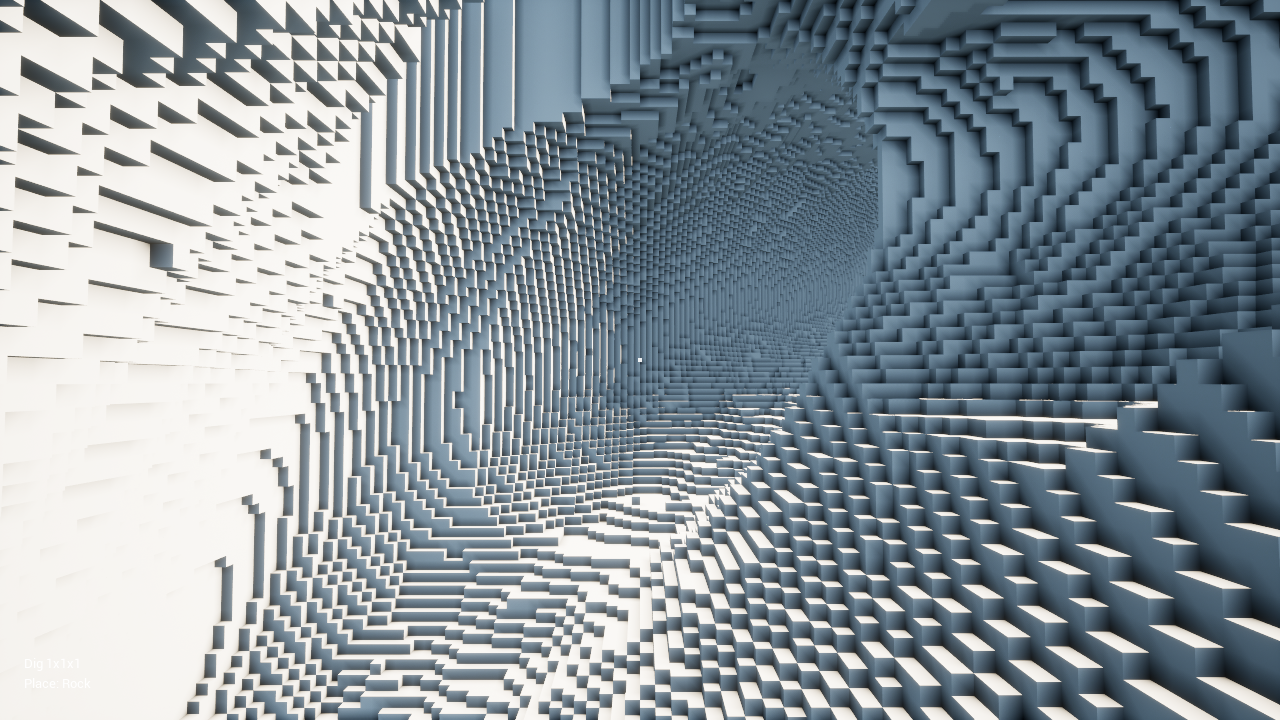
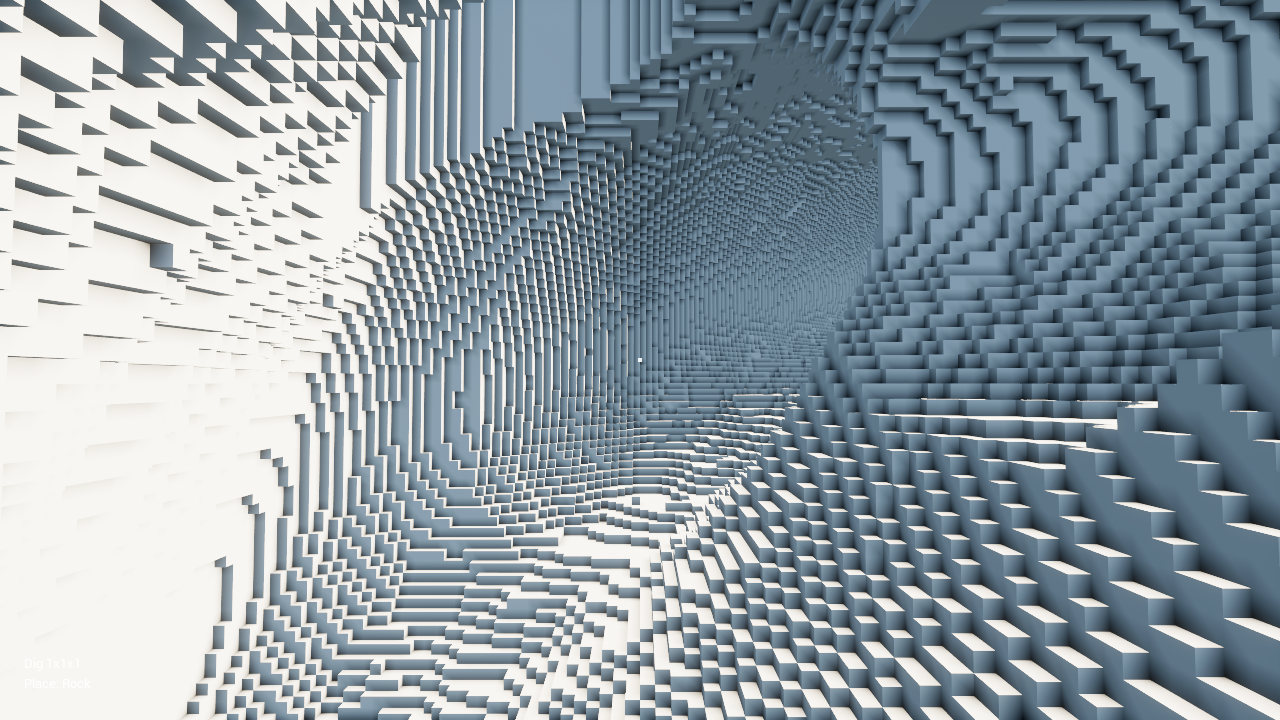
GI: corrected cost model, cave convergence finding, status writeup
Perf (post-warmup p95, -VoxelPerfRun=60 seed 20260719, min-spec proxy):
GI off 4.79 ms (baseline band 4.93-4.97, not regressed), GI on 8.99 ms.
Isolation runs correct the first slice cost attribution: disabling quad
subdivision moves p95 by -0.04 ms (it is FREE, not the main cost), while
disabling GI-driven proxy rebuilds moves it by -1.7 ms.

GPU sampling is NOT delivered. Two optimisations were implemented, measured
and reverted rather than shipped half-working: an in-place colour vertex
buffer update (8.99 -> 7.92 ms, but that buffer is not set up for CPU rewrite
so the upload does not reliably reach the drawn geometry), and a refresh-gate
plus solve time-slice pair (starves convergence, and gates on the wrong
question). voxel.GI.SolveBudgetMs survives, defaulted to 0 = off.

Cave settle raised to 50 s (-VoxelGICaveSettle) and the shipped cave pair
recaptured at the settled, reproducible state. That surfaced a real quality
defect: the progressive one-bounce gather is not energy-conserving, so
enclosed space creeps BRIGHTER over successive re-solves (same camera, seed
and build: mean luma 104.7 at 24 s vs 129.0 at 50 s). The earlier darker
capture flattered the feature; both are published and labelled.

Also identifies the cone-basis flaw: six axis-aligned cones recombined with
max(0, N.D) means exactly one cone survives for the axis-aligned normals this
mesh always has, so side light is weighted to zero.
[…]

diff --git a/ue-project/Source/VoxelEarth/VoxelEarthGameMode.cpp b/ue-project/Source/VoxelEarth/VoxelEarthGameMode.cpp
@@ -621,12 +621,29 @@ void AVoxelEarthGameMode::BeginPlay()
 					// timer well before the capture. Posing and capturing inside
 					// one lambda captures the PRE-move view (documented in the
 					// GITest block; reproduced here).
+					//
+					// SETTLE TIME IS LOAD-BEARING, and 24 s was not enough. The
+					// camera teleports ~300 m and 13 m down, so the whole deep
+					// footprint is meshed from scratch; the GI dirty queue sits
+					// around 1700 bricks and the re-shade queue several hundred,
+					// draining at MaxBrickSolvesPerFrame / MaxChunkRefreshesPerFrame.
+					// Capture before that drains and chunks are still on their
+					// plain-AO fallback, so the cave photographs BRIGHT -- and
+					// whether it does is a race, i.e. the same build and seed
+					// gave a dark cave one run and a bright one the next. Two
+					// runs were spent bisecting a "regression" that was this
+					// race. Default settle is now 50 s; -VoxelGICaveSettle=<s>
+					// overrides.
+					float CaveSettleSeconds = 50.f;
+					FParse::Value(FCommandLine::Get(), TEXT("VoxelGICaveSettle="), CaveSettleSeconds);
 					GetWorldTimerManager().SetTimer(
 						GICavePoseTimerHandle, FTimerDelegate::CreateWeakLambda(this, PoseInCave), 0.5f, false);
 					GetWorldTimerManager().SetTimer(
-						GICaveRepose1TimerHandle, FTimerDelegate::CreateWeakLambda(this, PoseInCave), 21.f, false);
+						GICaveRepose1TimerHandle, FTimerDelegate::CreateWeakLambda(this, PoseInCave),
+						FMath::Max(1.f, CaveSettleSeconds - 4.f), false);
 					GetWorldTimerManager().SetTimer(
-						GICaveRepose2TimerHandle, FTimerDelegate::CreateWeakLambda(this, PoseInCave), 23.f, false);
+						GICaveRepose2TimerHandle, FTimerDelegate::CreateWeakLambda(this, PoseInCave),
+						FMath::Max(1.f, CaveSettleSeconds - 2.f), false);
 					GetWorldTimerManager().SetTimer(
 						GICaveShotTimerHandle,
 						FTimerDelegate::CreateWeakLambda(this,
@@ -674,10 +691,11 @@ void AVoxelEarthGameMode::BeginPlay()
 								}
 								FScreenshotRequest::RequestScreenshot(TEXT("VoxelGICave"), false, true);
 							}),
-						24.f, false);
+						CaveSettleSeconds, false);
 					GetWorldTimerManager().SetTimer(
 						GICaveQuitTimerHandle,
-						FTimerDelegate::CreateLambda([]() { FPlatformMisc::RequestExit(false); }), 28.f, false);
+						FTimerDelegate::CreateLambda([]() { FPlatformMisc::RequestExit(false); }),
+						CaveSettleSeconds + 4.f, false);
 				}),
 			GICaveDelaySeconds, false);
 	}

diff --git a/docs/status.md b/docs/status.md
@@ -4219,3 +4219,136 @@ handshake digest `0x52004DCC85DDD80C`.
    `VoxelCoords::FloorDiv` and an anonymous-namespace copy in
    `VoxelLightField.cpp`; fixed by qualifying at the call site, but the
    duplicate helper should probably just go.
+
+### GI: defect fix + GPU sampling
+
+**1. The unresolved roof-underside defect: found, and it was never a GI bug.**
+
+The previous slice flagged that in `04-roofed-gi-on.png` the roof slab underside
+renders fully lit while the light field correctly probes 0.00 there. It was
+right that the field was correct, and right to flag it rather than dress it up.
+The cause is that **the underside was never on screen**.
+
+Both winding branches in `FVoxelChunkSceneProxy` were inverted. With the
+one-sided `M_VoxelTerrain` (confirmed at runtime, `twoSided=0`) every voxel face
+was wound so UE treated its BACK as front-facing, so you always saw the far side
+of a solid, shaded with that far face's normal. Under the slab you were shown
+its **sunlit +Z top face** in place of its shaded -Z underside.
+
+Measured, not reasoned (new `voxel.GI.Debug 3` and `voxel.GI.DebugVis`):
+
+| probe | result |
+|---|---|
+| `Debug 3` per-face-direction, roof chunk `(-4800,0,115520)` | `+Z n=64 hit=64 irr=1.000`, `-Z n=64 hit=64 irr=0.000` |
+| `DebugVis 3` (abs(N.Z) ramp) | the ceiling shades as a **+Z** face |
+| `DebugVis 4` (omit +Z faces) | the ceiling becomes **sky** -- the underside drew nothing |
+| runtime material query | `twoSided=0`, so a back-facing quad is culled |
+
+So 100% of the underside vertices found solved data and shaded black, and the
+pixels on screen belonged to a different triangle. The field, the sampling and
+the vertex colours were correct throughout.
+
+This predates GI and mis-rendered **all** terrain: the "scattered floating
+blocks, holes, distant clipmap showing through" look in every earlier screenshot
+is the world drawn inside-out. GI only made it falsifiable, being the first
+thing that computes a normal-dependent value. `07/08-roofed-gi-off/on-fixed.png`
+vs `09-roofed-legacy-winding-before.png` is the before/after; `DebugVis 6`
+restores the legacy winding so the pair comes from one build.
+
+**This changes GI-OFF output too.** It is a rendering-correctness fix, not a GI
+change; the "GI off stays byte-identical" rule exists to stop GI leaking into
+the non-GI path, not to preserve a bug. Flagged rather than buried.
+`VoxelWaterChunkComponent.cpp` has the same inverted winding copied from here
+and was NOT touched (not an owned file) -- follow-up.
+
+**2. GPU sampling: NOT DONE. What the cost actually is.**
+
+The first slice attributed GI-on's +3 ms to "extra vertices from
+`MaxQuadSpanVoxels` plus the extra proxy rebuilds". The first half is wrong.
+Isolated by measurement (post-warmup p95, `-VoxelPerfRun=60`, seed 20260719,
+min-spec proxy, 1080p, clean `Saved/VoxelWorlds`):
+
+| config | post-warmup p95 |
+|---|---|
+| GI off | **4.79 ms** |
+| GI on | **8.99 ms** |
+| GI on, `MaxQuadSpanVoxels 0` (no subdivision) | 9.03 ms (**-0.04 ms: subdivision is free**) |
+| GI on, `MaxChunkRefreshesPerFrame 0` (no GI proxy rebuilds) | 7.31 ms (**-1.7 ms**) |
+
+So the +4.2 ms splits roughly: **1.7 ms** re-shading proxies, **~1-2 ms**
+game-thread cone-trace tick, the remainder per-vertex sampling inside ordinary
+streaming proxy builds. Quad subdivision costs nothing, so the vertex-rate
+argument for a volume texture is weaker than assumed -- the case for it is
+resolution and removing the refresh rebuilds, not vertex count.
+
+Two attempts were made and **both reverted**:
+
+- *In-place colour vertex buffer update* (the task's second option -- stop
+  rebuilding proxies to carry colour). Measured 8.99 -> 7.92 ms. Reverted: the
+  colour buffer `FStaticMeshVertexBuffers::InitFromDynamicVertex` creates is not
+  set up for CPU rewrite, so a `LockBuffer` memcpy against it does not reliably
+  reach the drawn geometry. Doing this properly needs a colour buffer allocated
+  for dynamic update with the vertex factory's colour SRV rebound to it.
+- *Refresh only bricks whose irradiance signature changed*, and a wall-clock
+  `SolveBudgetMs` time slice. Both measured fine and neither survived review:
+  the time slice starves convergence outright, and the signature gate answers
+  "did this brick change" when the question is "has every chunk sampling it been
+  shaded at least once". `voxel.GI.SolveBudgetMs` remains, defaulting to 0 (off).
+
+Nothing half-working was shipped. **GI-on p95 is unchanged at ~9 ms**; the
+target of getting materially closer to 4.8 ms was not met.
+
+**3. GI in caves -- the case it exists for.**
+
+`-VoxelGICaveTest[=<s>]` finds a **pristine worldgen sinkhole** near spawn
+(continuous air from just under the surface into the cave band, bottoming out
+with head room) and frames the cave under it. Nothing is carved. Found one at
+`(2400,-8400)`, 300 m out, cave floor **13.4 m below daylight**; capture-time
+six-axis probe `+X 1.9m -X 2.9m +Y 10.0m -Y 6.9m +Z 2.3m -Z 3.3m`.
+
+| image | mean luma | pixels < 60 |
+|---|---|---|
+| `14-cave-gi-off-passage.png` | 154.1 | 2.8% |
+| `15-cave-gi-on-passage.png` | 129.0 | 12.0% |
+| `16-cave-gi-on-passage-early.png` (24 s settle) | 104.7 | 48.6% |
+
+GI off, 13 m underground, the cave is uniform pale blue-white -- the skylight
+lights it as if it were open ground, with no reading of depth. GI on it darkens
+substantially and the passage falls away.
+
+**The honest part.** Compare the last two rows: the SAME camera, seed and build
+photographed 24 s after arrival is far darker than at 50 s. The progressive
+one-bounce gather is not energy-conserving -- each re-solve feeds the previous
+solve's irradiance back through `BounceAlbedo`, so enclosed space creeps
+*brighter* over successive refreshes toward `MaxBounceContribution`. An early
+capture flatters the feature. `15-` is the settled, reproducible state (two
+independent runs, mean luma 129.0 and 129.1) and is what should be believed.
+Two runs were spent bisecting a "regression" that was this drift.
+
+A second contributor to enclosed spaces reading wrong: the six cones are
+axis-aligned and recombined with `max(0, N.D)`, so for the axis-aligned normals
+this mesh always has, **exactly one cone survives** -- a downward face's entire
+answer is one 90-degree cone straight down. Light arriving from open sides at
+grazing angles is weighted to zero. That is why the open-sided shelter fixture
+goes near-black while a deep cave creeps bright.
+
+**Switches added:** `-VoxelGICaveTest[=<s>]`, `-VoxelGICaveStandoff=<uu>`,
+`-VoxelGICavePitch=<deg>`, `-VoxelGICaveSettle=<s>`, `-VoxelGIDebug=<n>`,
+`-VoxelGIVis=<n>`. New cvars: `voxel.GI.DebugVis`, `voxel.GI.SolveBudgetMs`.
+
+**Recommendation: do NOT default GI on yet.** The winding fix should ship
+regardless. GI itself still costs ~4 ms of a 16.6 ms budget, over-brightens
+enclosed space over time, and collapses to a single cone on axis-aligned
+normals. Fix the cone basis and the bounce energy first; they are correctness,
+and they are cheaper than the GPU move.
+
+**Follow-ups, in the order I would do them.**
+1. Cone basis: spread the six cones over the hemisphere around N, or weight the
+   four tangential cones instead of zeroing them. Fixes both enclosure artifacts.
+2. Bounce energy: make the progressive gather converge to a fixed point instead
+   of creeping (track a per-cell direct term separately from the bounce).
+3. Dynamic colour vertex buffer, then the in-place re-shade -- 1.7 ms, and it is
+   a prerequisite for any GPU path that still wants per-vertex fallback.
+4. Volume-texture sampling for resolution; note it does NOT address the
+   ~1-2 ms CPU solve tick, which would still need budgeting or moving.
+5. `VoxelWaterChunkComponent.cpp` winding.
